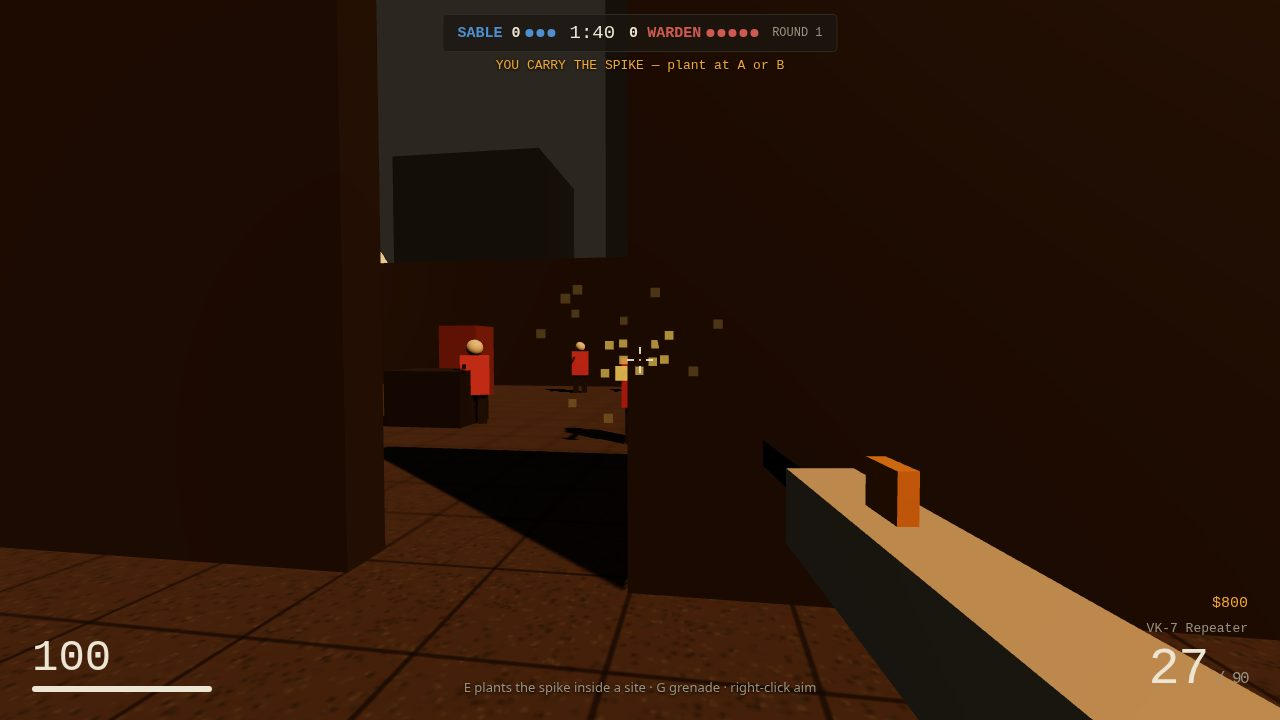
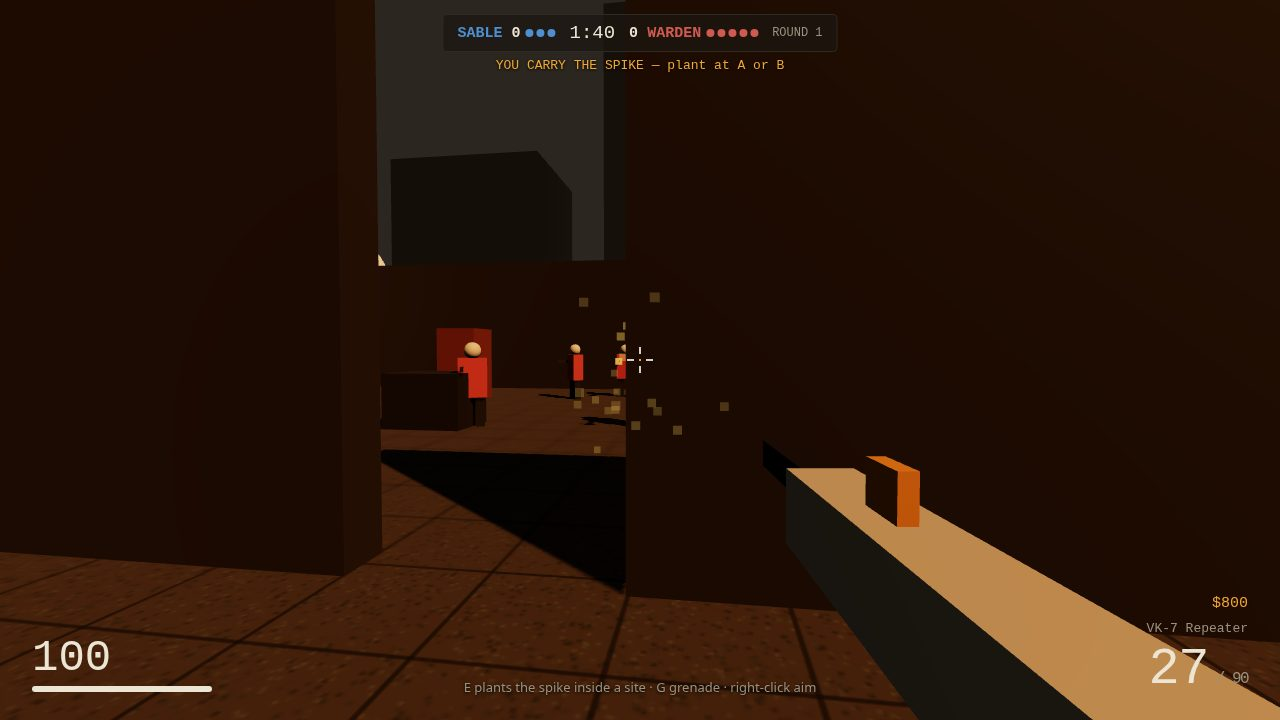
Fix pips cache freeze (round-2 stale dots), open buy menu in round 1, drop dead code (plantBeep, plant/defuseProgress)

diff --git a/game/src/hud.js b/game/src/hud.js
@@ -84,9 +84,10 @@ export function createHud() {
   }
 
   function pips(el, alive, total, cls) {
-    const key = `${el.id}-${alive}`;
-    if (last[key]) return;
-    last[key] = true;
+    // Key on the element, not the count: the same alive count recurs every
+    // round, and a count-keyed cache freezes the dots at their first value.
+    if (last[el.id] === alive) return;
+    last[el.id] = alive;
     el.innerHTML = '';
     for (let i = 0; i < total; i += 1) {
       const dot = document.createElement('i');

diff --git a/game/src/main.js b/game/src/main.js
@@ -552,6 +552,7 @@ function aimAt(point) {
 function runShot(name) {
   hud.hideOverlay();
   hud.hideBuy();
+  buyOpen = false;
   body.pitch = 0;
   body.yaw = 0;
   if (name === 'start') {
@@ -642,6 +643,7 @@ renderer.domElement.addEventListener('click', () => {
 });
 
 syncCamera();
+startRound(); // Round 1 must open its buy menu like every later round.
 refreshHud();
 if (shot) runShot(shot);
 else requestAnimationFrame(frame);

diff --git a/game/src/rounds.js b/game/src/rounds.js
@@ -128,12 +128,6 @@ export function createRounds(world) {
       }
       return (state.bomb.defuse ?? 0) / 5;
     },
-    plantProgress() {
-      return (state.bomb.plant ?? 0) / 3.5;
-    },
-    defuseProgress() {
-      return (state.bomb.defuse ?? 0) / 5;
-    },
     dropSpike(pos) {
       state.spike = { carrier: null, dropped: true, pos: pos.clone() };
     },

diff --git a/game/src/audio.js b/game/src/audio.js
@@ -85,9 +85,6 @@ export function createAudio() {
       noise(0.9, 400, 0.9, 'lowpass');
       tone(90, 0.7, 0.5, 'sine', 30);
     },
-    plantBeep() {
-      tone(1200, 0.07, 0.15, 'square');
-    },
     defuseBeep() {
       tone(900, 0.07, 0.15, 'square');
     },
